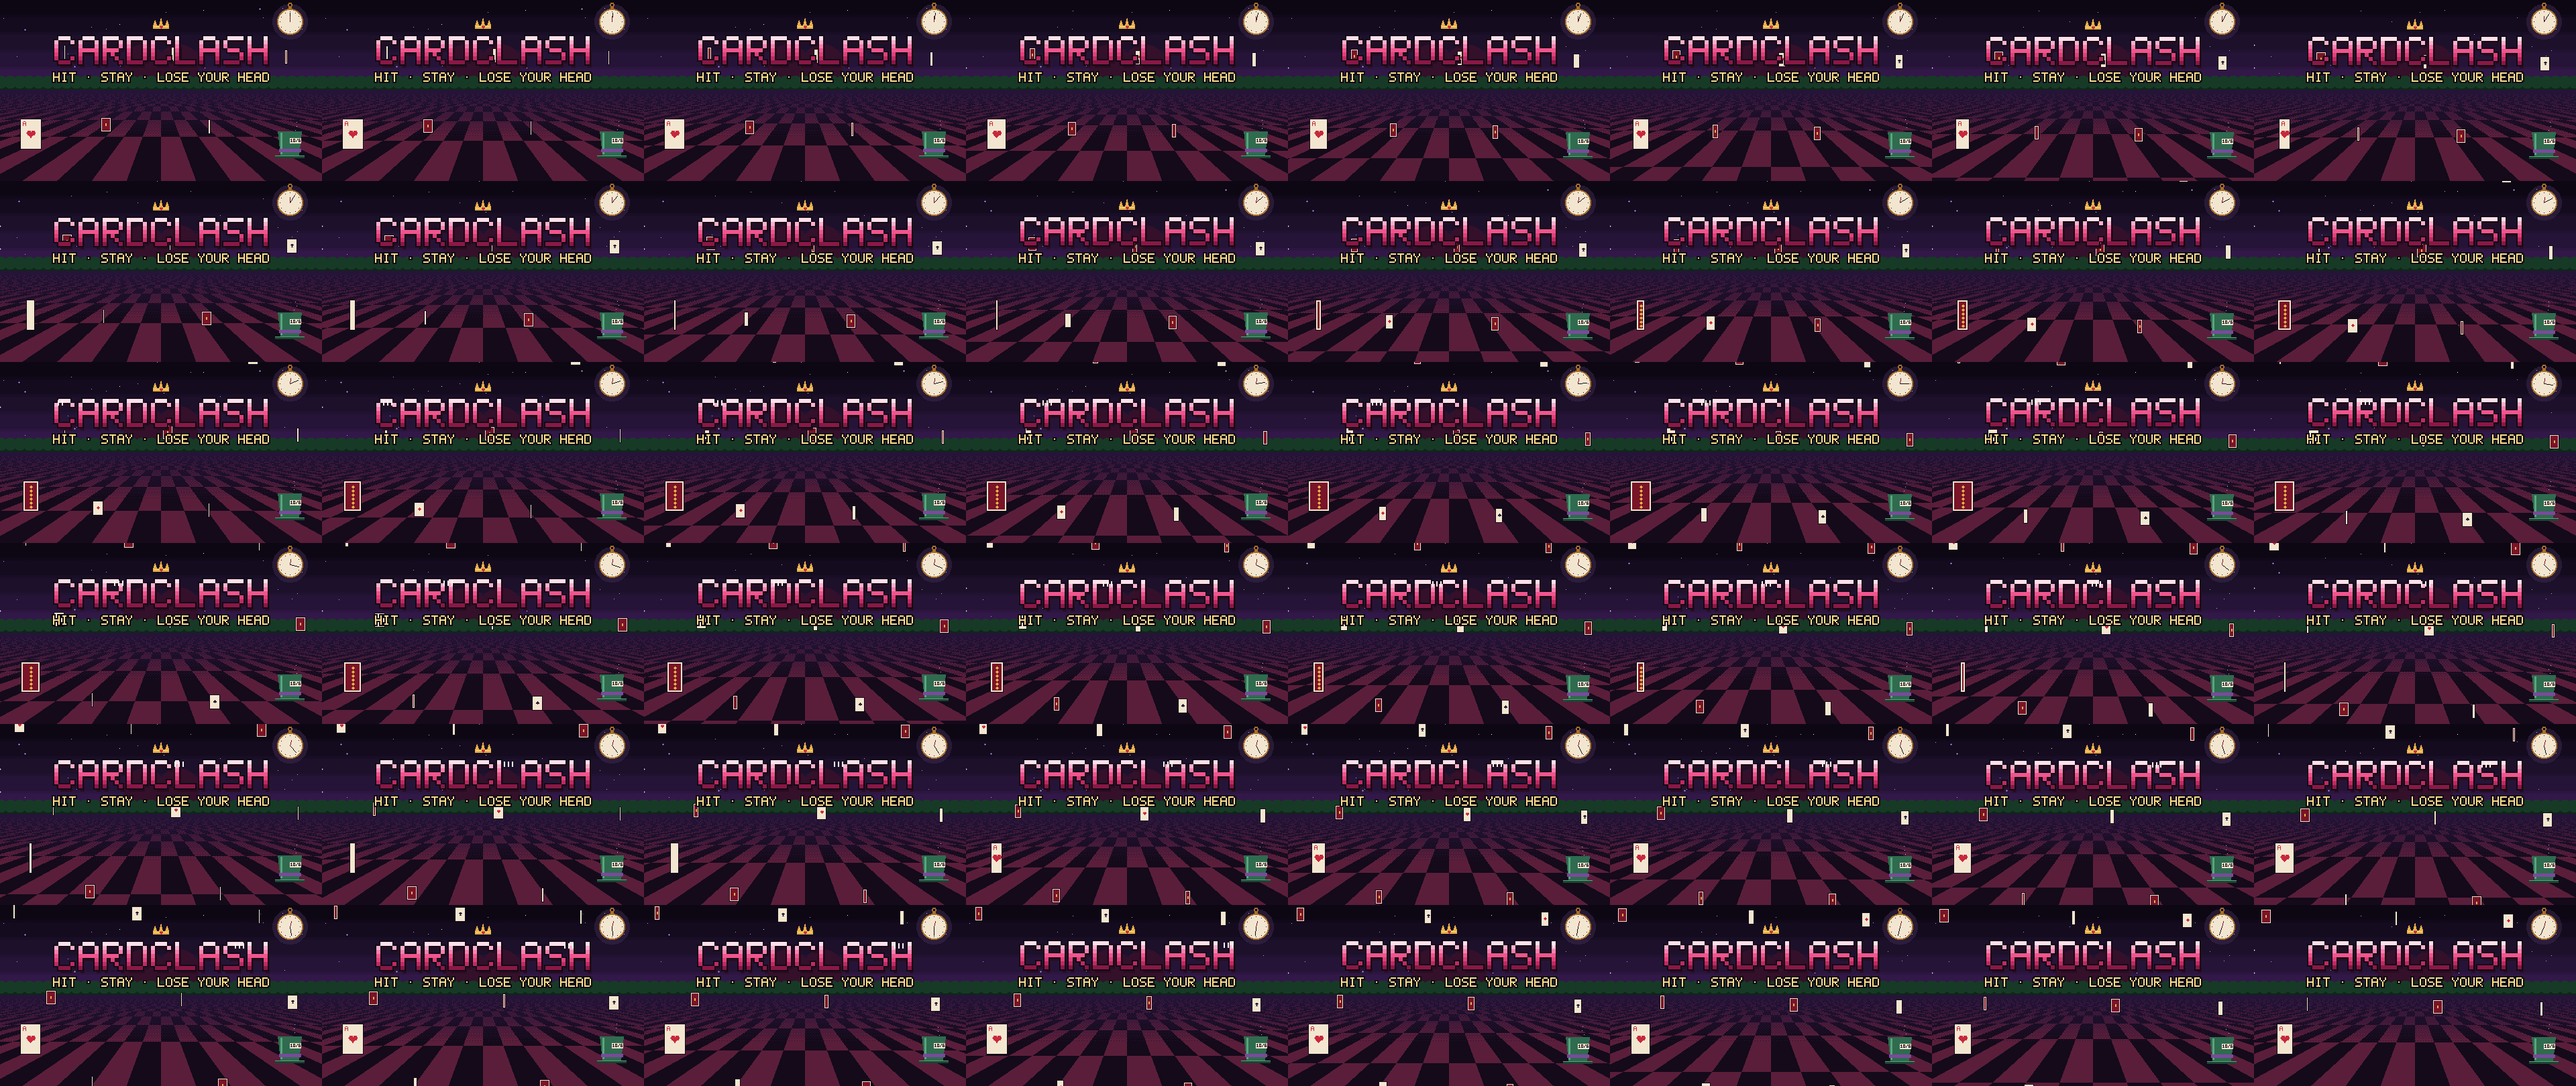
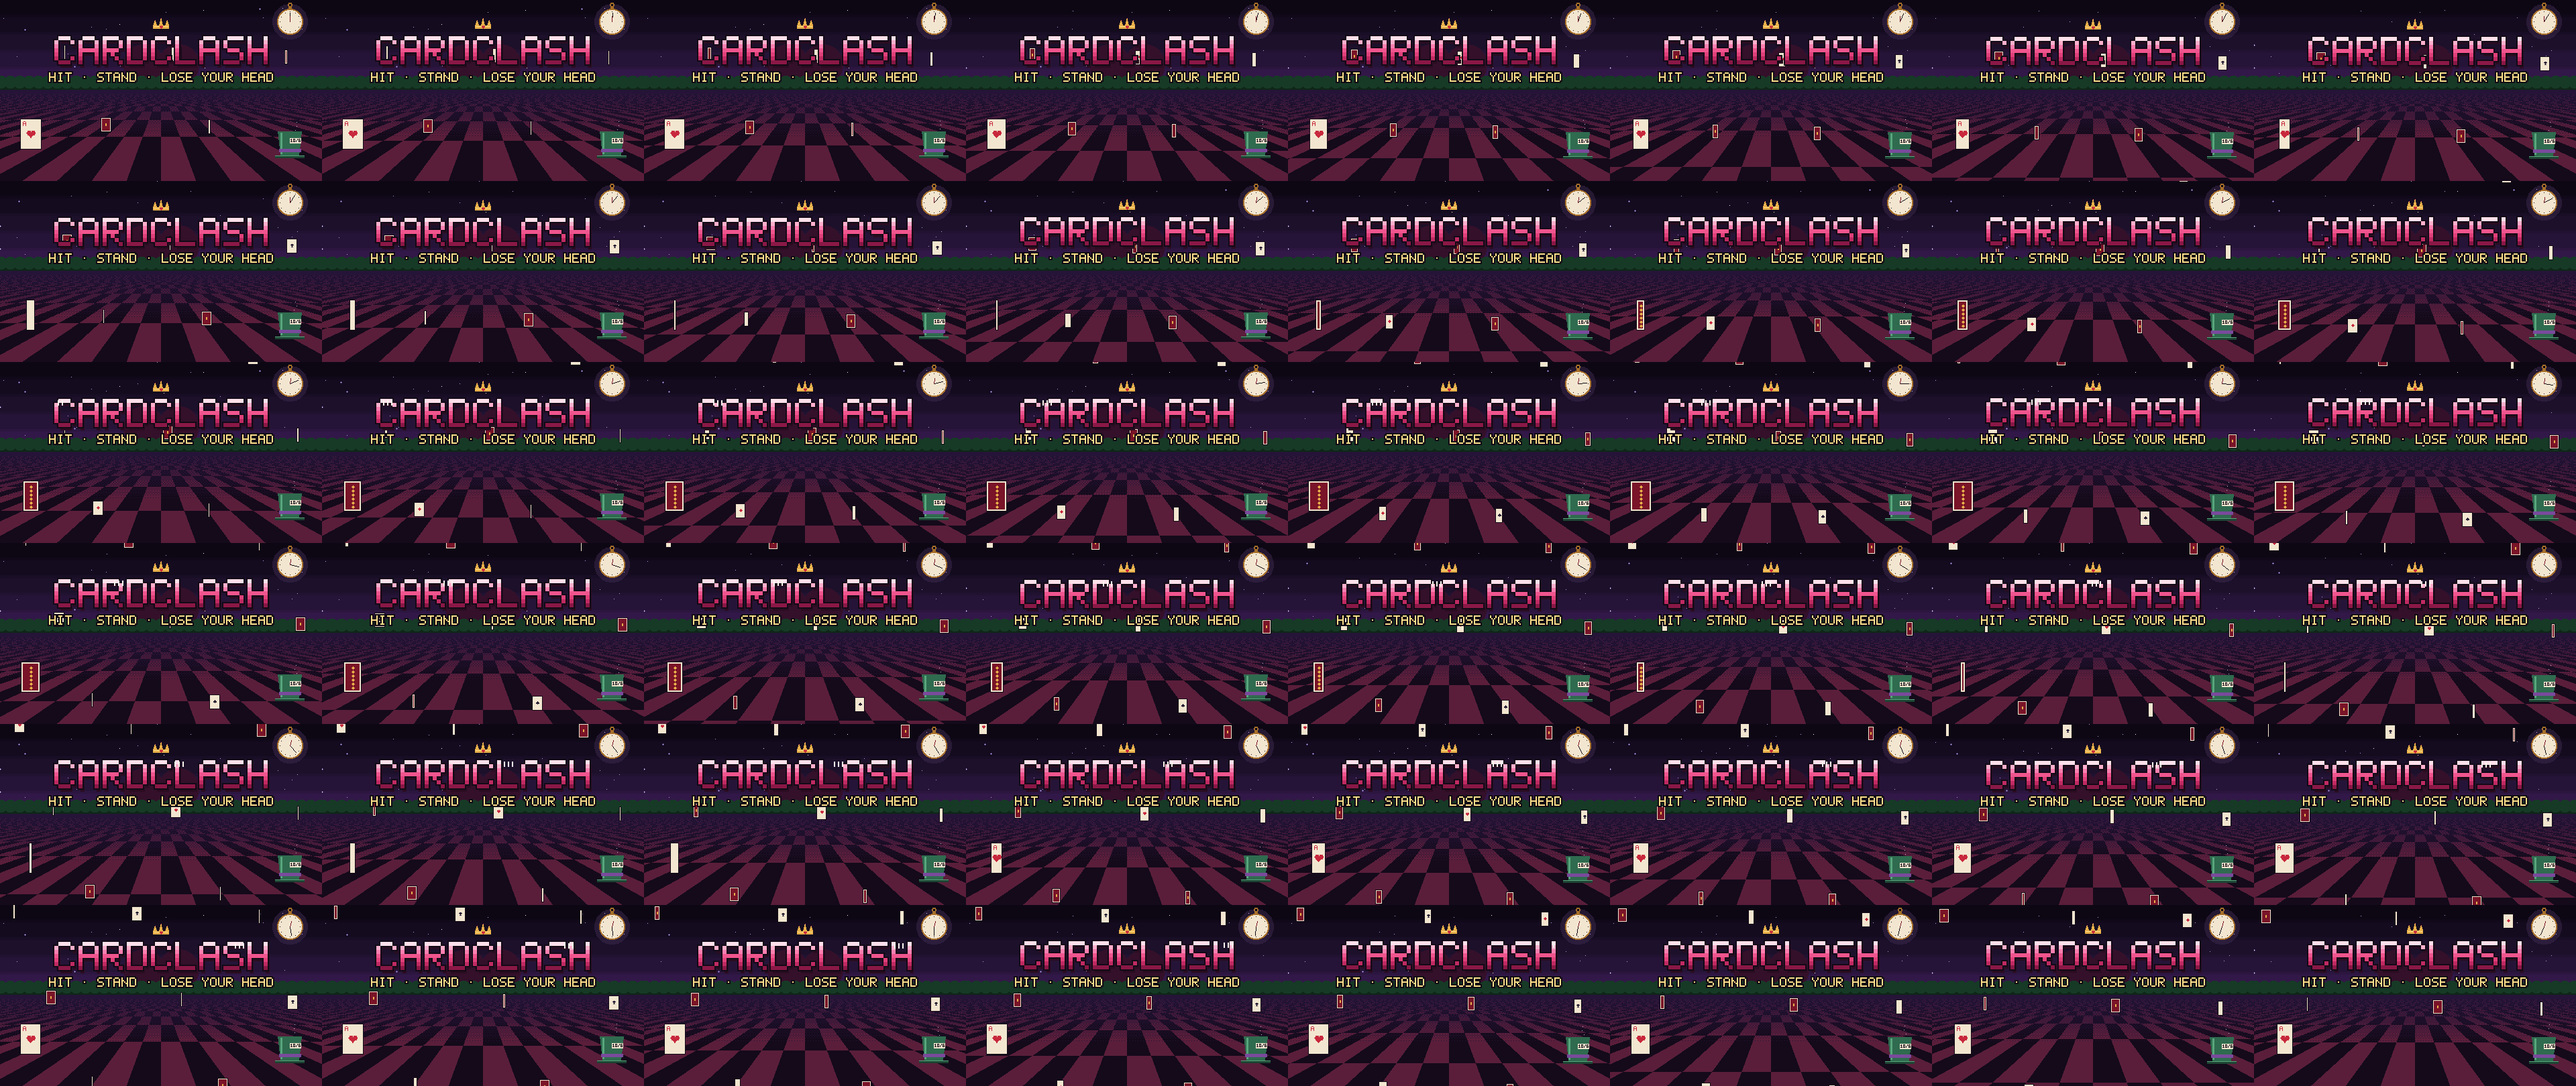
Title tagline says STAND: HIT · STAND · LOSE YOUR HEAD
The battle button became STAND, but the animated title still said
STAY. engine.js draws the new tagline and only title.png is re-exported
(with the pinned canvas 0.1.65); every other sheet is left as it was.

diff --git a/tools/sprites/engine.js b/tools/sprites/engine.js
@@ -243,7 +243,7 @@ S.title = (o) => ({ raw:(t,W,H)=>{
  text(T,tx,ty,(j)=>['#ffe0ea','#ffb0cc','#ff7fb0','#f0558e','#e0407a','#c02a62','#8a1846'][j],sc);
  const gx=(t*90)%(W+200)-100; for (let k=0;k<3;k++) { const x=Math.round(gx)+k*6; if (x>tx&&x<tx+tw(T,sc)) { R(x,ty+2,2,8,P.white); } }
  const cx=240, cy=38+(Math.floor(t*1.5)%2); R(cx-12,cy,24,5,P.gold); R(cx-11,cy+1,22,1,P.goldHi); poly([[cx-12,cy],[cx-9,cy-9],[cx-6,cy]],P.gold); poly([[cx-3,cy],[cx,cy-12],[cx+3,cy]],P.gold); poly([[cx+6,cy],[cx+9,cy-9],[cx+12,cy]],P.gold); px(cx-9,cy-8,P.redHi); px(cx,cy-11,P.redHi); px(cx+9,cy-8,P.redHi); bmp(PIP5.heart,cx-2,cy,P.red);
- const tg='HIT · STAY · LOSE YOUR HEAD'; stext(tg,Math.round((W-tw(tg,2))/2),108,P.goldHi,2);
+ const tg='HIT · STAND · LOSE YOUR HEAD'; stext(tg,Math.round((W-tw(tg,2))/2),108,P.goldHi,2);
  if (!o.noPress&&(t%1.2)<0.8) { const ps='- PRESS START -'; stext(ps,Math.round((W-tw(ps,2))/2),228,P.cream,2); }
  const cw2=Math.cos(t*1.2), w2=Math.max(2,Math.round(Math.abs(cw2)*30)), x2=46-Math.round(w2/2); R(x2-1,177,w2+2,46,P.ink); R(x2,178,w2,44,P.cream); if (cw2<0) { R(x2+2,180,w2-4,40,P.redDk); for (let yy=184;yy<218;yy+=6) if (w2>10) bmp(PIP5.diamond,x2+w2/2-2,yy,P.gold); } else if (w2>14) { text('A',x2+3,181,P.red,1); heart(x2+w2/2,198,6,P.red); }
  const hb=Math.floor(t*2)%2; R(410,232+hb,44,4,P.greenDk); R(410,232+hb,44,1,P.greenHi); poly([[418,232+hb],[446,232+hb],[450,196+hb],[414,196+hb]],P.green); R(418,198+hb,3,32,P.greenHi); R(416,222+hb,33,5,P.plumHi); R(432,206+hb,17,8,P.cream); mtext('10/6',433,207+hb,P.ink);
